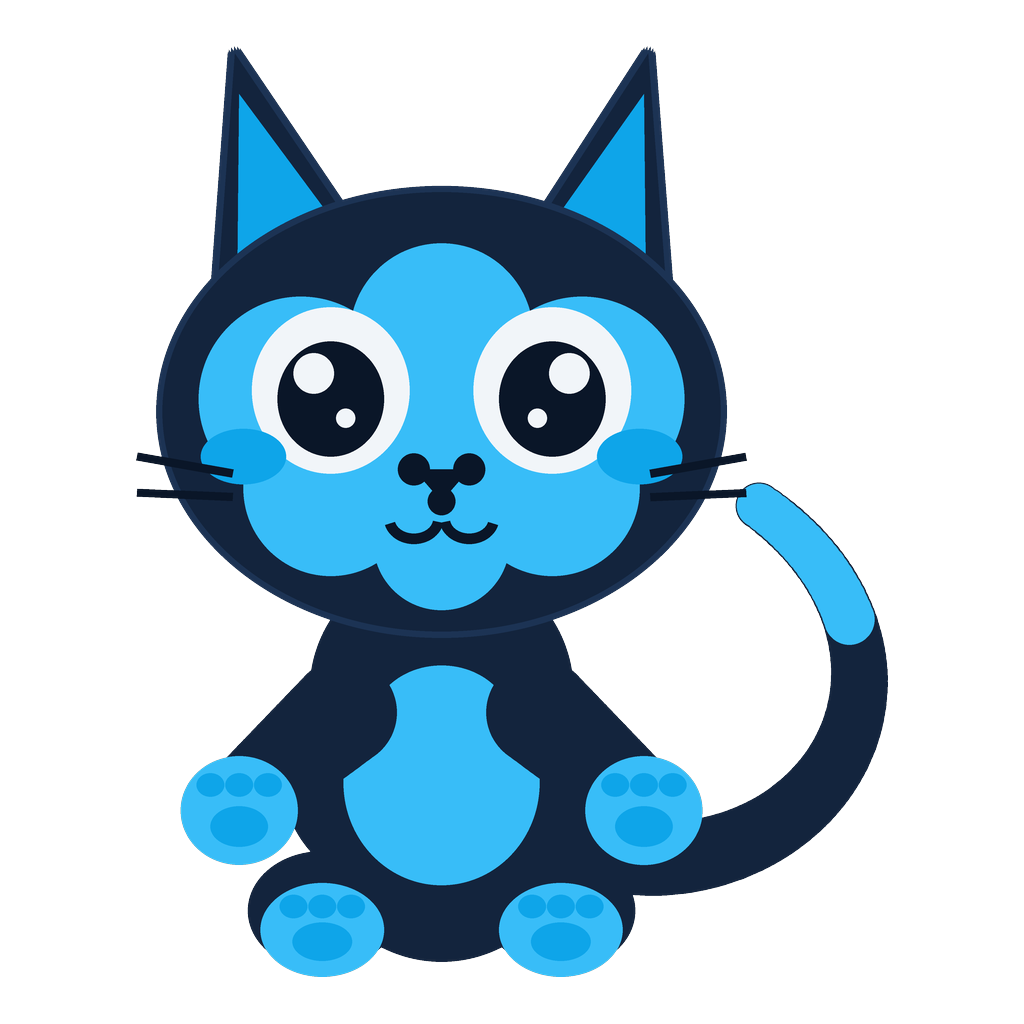
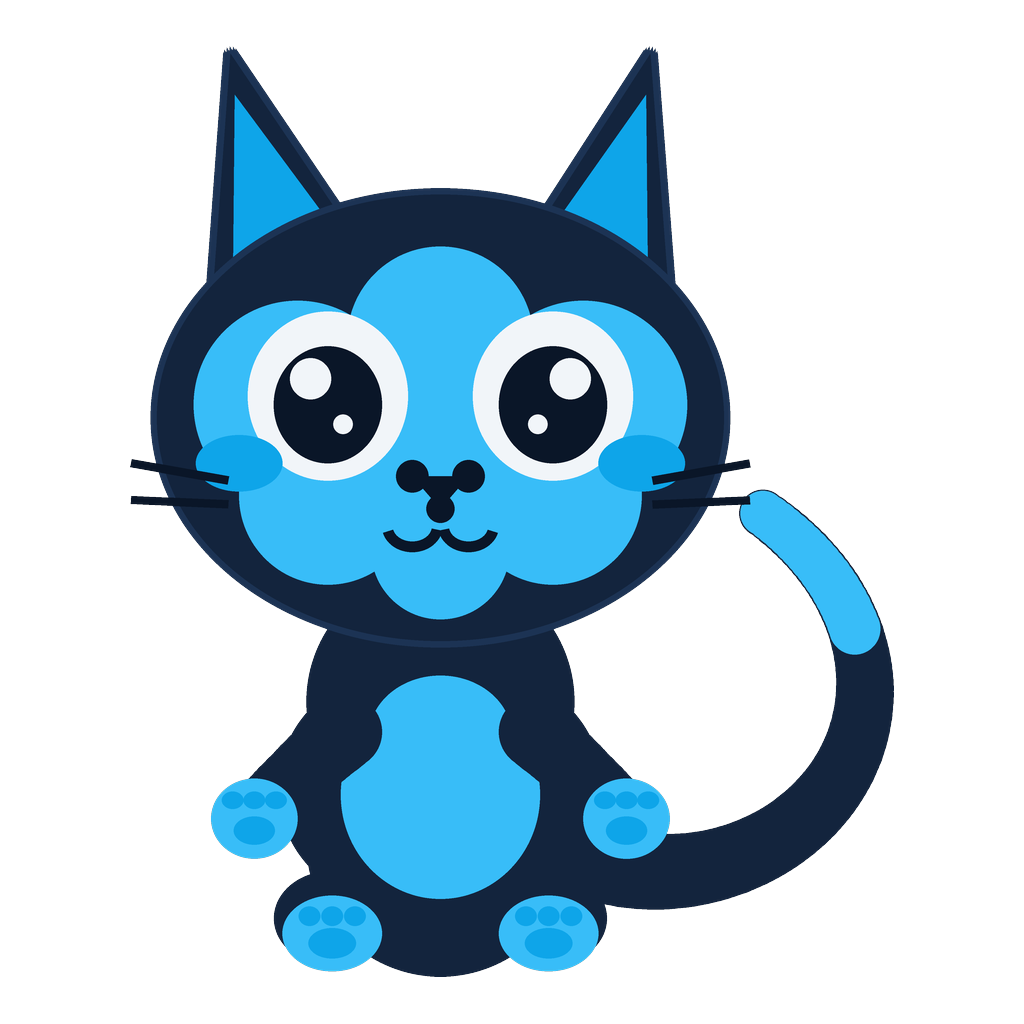
Mascot: thinner limbs and smaller paws
The arms were as thick as the torso is deep, so the two merged into a
single dark mass with paws stuck on the outside and no limb readable at
all. The paws were oversized to match.

Arm thickness cut by a third and tapered harder, front and back paws
scaled down with their pads and toe beans, and the whole stance pulled in
so the limbs read against the body instead of competing with it.

diff --git a/scripts/make_mascot.py b/scripts/make_mascot.py
@@ -123,12 +123,12 @@ def draw_body(d):
     # Set a little narrower than the hands, so the stance reads as a sitting
     # animal rather than a star shape.
     for sx in (-1, 1):
-        fx = 512 + sx * 112
-        ell(d, fx, 912, 70, 56, NAVY)                   # ankle behind the paw
-        ell(d, fx, 930, 58, 44, SKY)                    # paw
-        ell(d, fx, 941, 28, 18, SKY_DEEP)               # main pad
+        fx = 512 + sx * 100
+        ell(d, fx, 906, 54, 44, NAVY)                   # ankle behind the paw
+        ell(d, fx, 920, 46, 35, SKY)                    # paw
+        ell(d, fx, 929, 22, 14, SKY_DEEP)               # main pad
         for f in (-1, 0, 1):                            # toe beans
-            ell(d, fx + f * 27, 908, 13, 11, SKY_DEEP)
+            ell(d, fx + f * 21, 904, 10, 9, SKY_DEEP)
 
     # Arms: rounded stubs ending in proper paws — a big palm pad and three
     # toe beans, same as the feet.
@@ -136,18 +136,21 @@ def draw_body(d):
     # The shoulder is anchored WELL INSIDE the torso. Started at the torso
     # edge instead, the first circles sit half outside it and leave a
     # concave notch where the arm meets the body.
+    # Thin. At the old thickness the arm was as fat as the torso is deep, so
+    # the two merged into one dark mass with paws stuck on the outside and no
+    # limb readable at all.
     for sx in (-1, 1):
-        shoulder_x = 512 + sx * 92
-        hand_x = 512 + sx * 190
+        shoulder_x = 512 + sx * 88
+        hand_x = 512 + sx * 172
         for i in range(21):
             t = i / 20
             cx = shoulder_x + (hand_x - shoulder_x) * t
-            cy = 726 + 86 * t
-            ell(d, cx, cy, 50 - 11 * t, 50 - 11 * t, NAVY)
-        ell(d, hand_x, 818, 55, 51, SKY)                       # paw
-        ell(d, hand_x, 833, 27, 19, SKY_DEEP)                  # palm pad
+            cy = 734 + 76 * t
+            ell(d, cx, cy, 34 - 7 * t, 34 - 7 * t, NAVY)
+        ell(d, hand_x, 814, 40, 37, SKY)                       # paw
+        ell(d, hand_x, 825, 19, 13, SKY_DEEP)                  # palm pad
         for f in (-1, 0, 1):                                   # toe beans
-            ell(d, hand_x + f * 27, 794, 13, 11, SKY_DEEP)
+            ell(d, hand_x + f * 20, 797, 10, 8, SKY_DEEP)
 
 
 # ---------------------------------------------------------------- head
